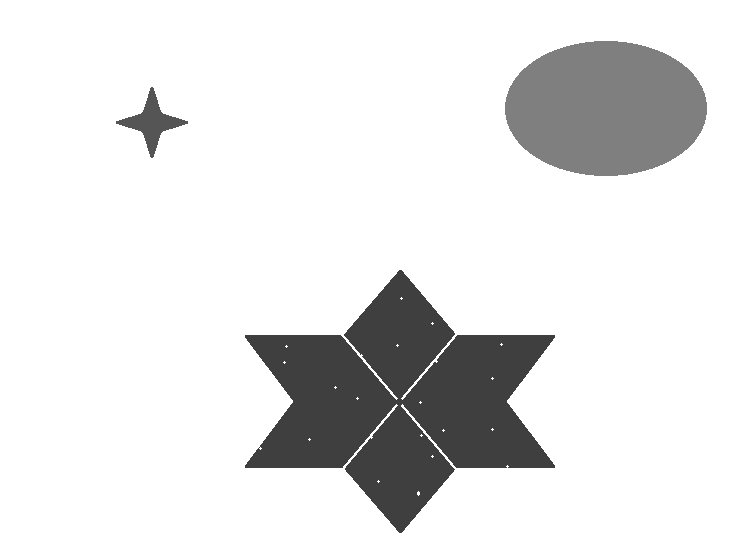
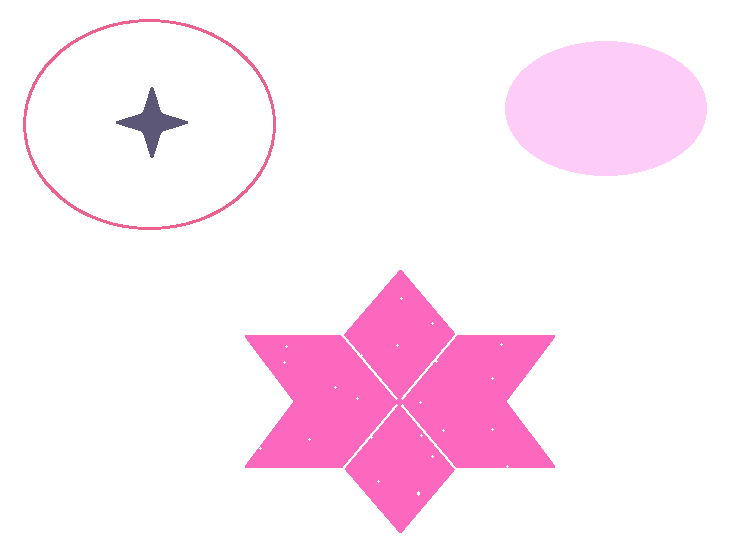
Update humban readable color

diff --git a/src/main.rs b/src/main.rs
@@ -1,7 +1,9 @@
 extern crate image;
+extern crate rand;
 
 use image::GenericImageView;
 use image::ImageBuffer;
+use rand::Rng;
 use std::cmp;
 
 fn main() {
@@ -26,6 +28,7 @@ fn main() {
     for (x, y, pixel) in imgbuf.enumerate_pixels_mut() {
         *pixel = image::Rgb([255, 255, 255]);
     }
+    let mut curret_color = get_random_color();
     for i in 0..points.len() {
         for j in 0..points[i].len() {
             if curret_point[i][j] {
@@ -58,14 +61,14 @@ fn main() {
                     if neighbor_count >= min_ptx {
                         //if neighbor_count_check was hold
                         neighbor_count_check += 1;
-                        *imgbuf.get_pixel_mut(p[1] as u32, p[0] as u32) =
-                            image::Rgb(get_current_color(k));
+                        *imgbuf.get_pixel_mut(p[1] as u32, p[0] as u32) = image::Rgb(curret_color);
 
                         //P = color
                     }
                 }
                 if neighbor_count_check > 0 {
                     k += 1;
+                    curret_color = get_random_color();
                 }
                 curret_point[i][j] = false;
             }
@@ -78,7 +81,7 @@ fn get_eculid_distance(start_x: i32, start_y: i32, end_x: i32, end_y: i32) -> f6
     return (((start_x - end_x).pow(2) + (start_y - end_y).pow(2)) as f64).sqrt();
 }
 
-fn get_current_color(k: i32) -> [u8; 3] {
-    let color = (255 / (k + 1)) as u8;
-    [color, color, color]
+fn get_random_color() -> [u8; 3] {
+    let mut rng = rand::thread_rng();
+    [rng.gen(), rng.gen(), rng.gen()]
 }
